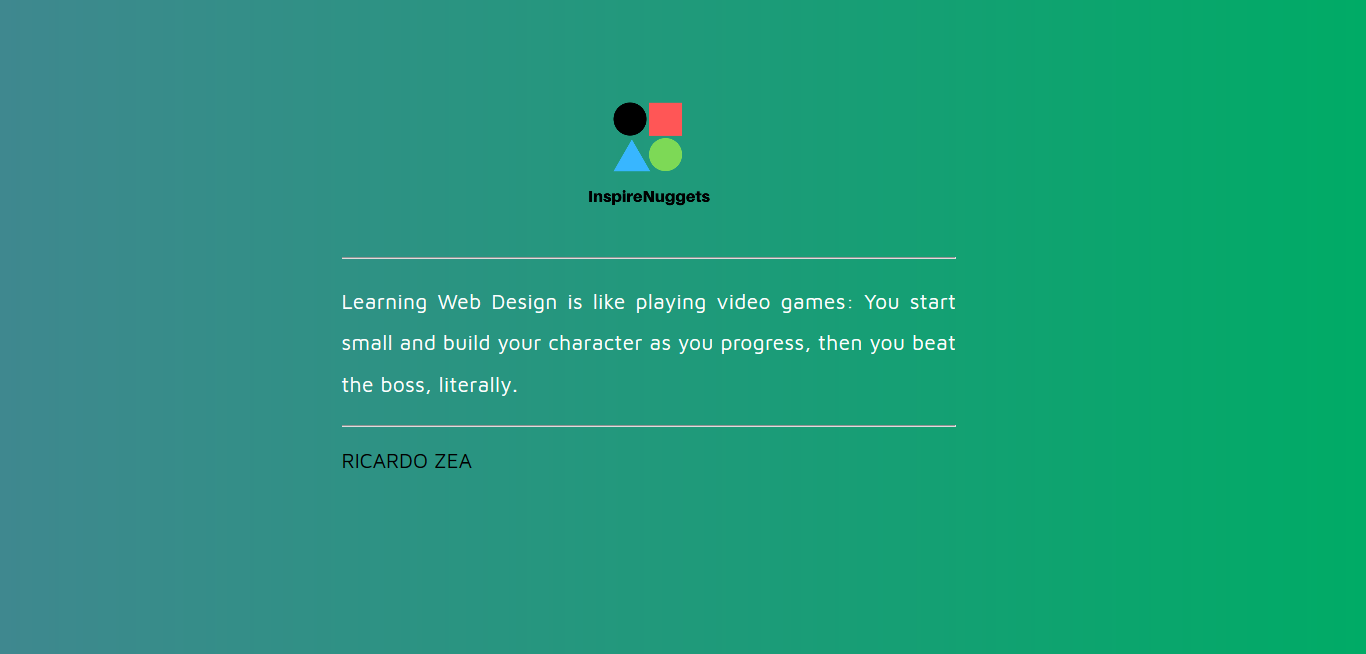
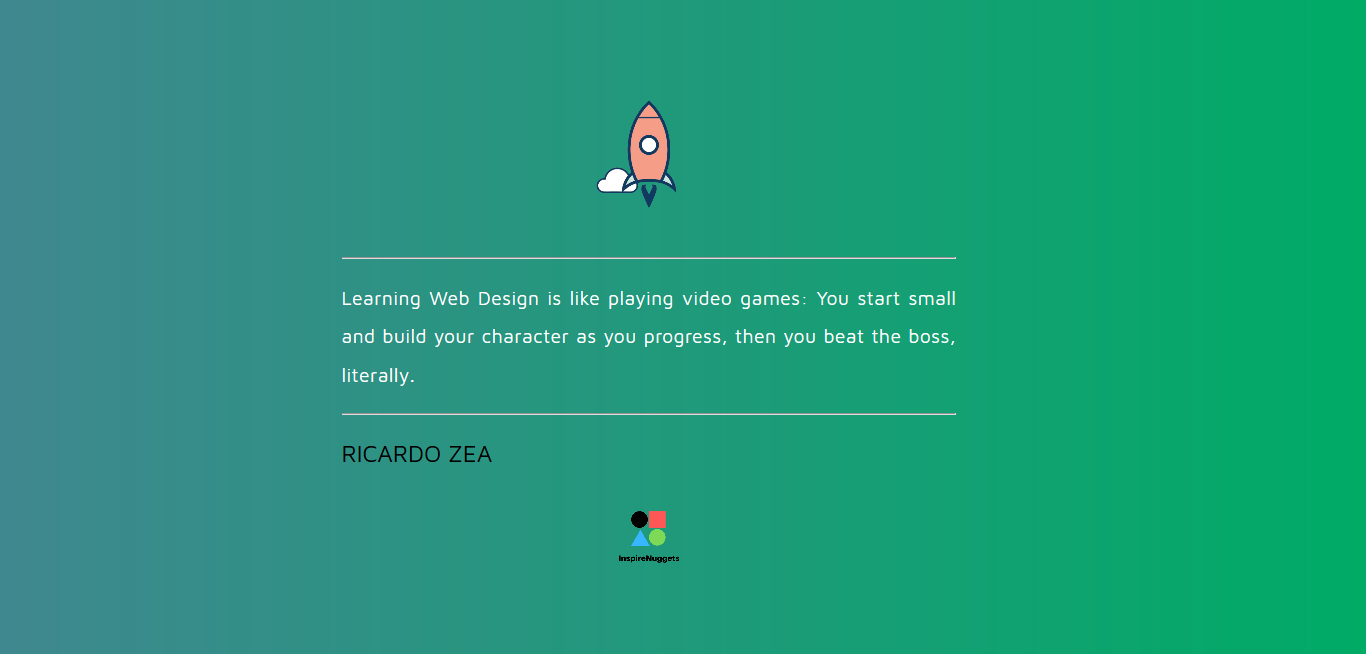
added GIF

diff --git a/css/app.css b/css/app.css
@@ -44,7 +44,7 @@ hr {
 }
 
 #quote {
-    font-size: 1.5em;
+    font-size: 1.2em;
     line-height: 2.0em;
     letter-spacing: 0.5px;
     font-weight: 100;
@@ -52,7 +52,7 @@ hr {
 }
 
 #author {
-    font-size: 1.8em;
+    font-size: 1.5em;
     text-align: left;
     color: #000;
     text-transform: uppercase;
